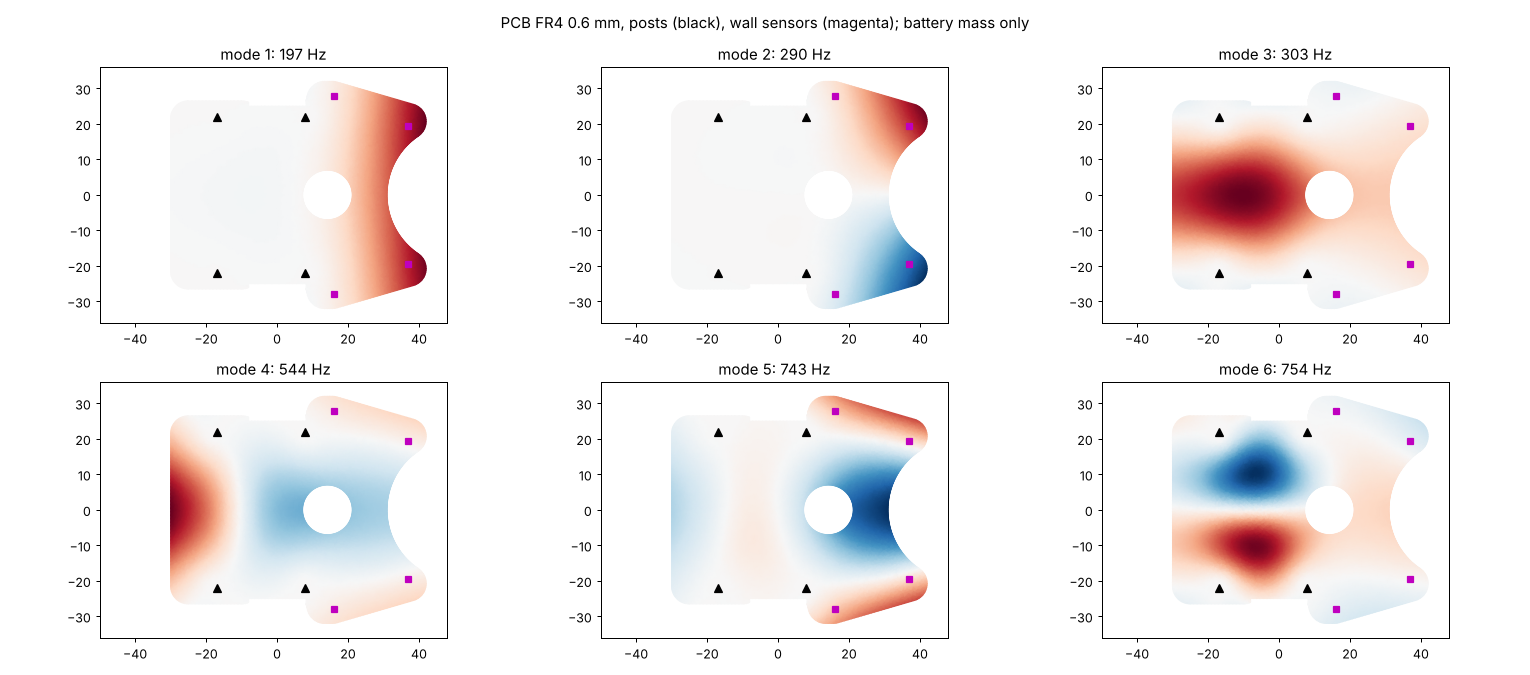
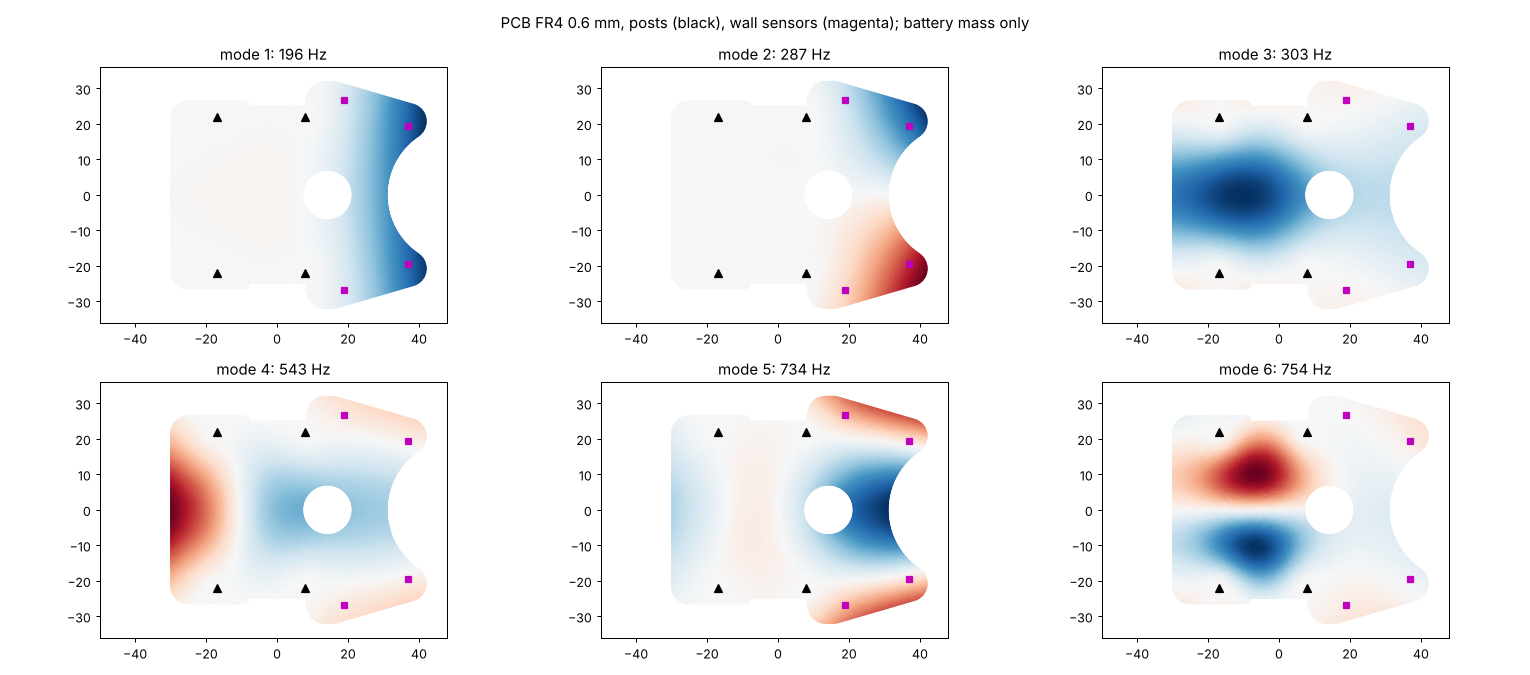
基板 v9: 前の壁センサを (21, ±27) へ(マウントの腕・ファンの台の継ぎ目から 1.1mm 離す)
Claude-Session: https://claude.ai/code/session_01H2Zvpqxqu2v63zaiCMmfT3

diff --git a/docs/vehicle.md b/docs/vehicle.md
@@ -24,7 +24,7 @@
 | フレームへの留め方 | **フレームには留めない**(2026-10-20)。モーターマウントの腕 (14, ±22) の2か所だけで持ち、輪はフレームの上に載せるだけ。羽根の推力と吸引で、台はフレームに押し付けられる向き。フレームの穴はマウントの4つだけになった(その前は前の耳 (33, 0) を下から鉄の低頭M2 L5で留めていた) |
 | 基板 | U字。モーターマウントの前後の耳の上の柱(z 13.6、4本)に載せ、ナイロンのM2 L4で留める(柱にねじ山)。**ファンの上は開けて**、吐き出した空気を上へ逃がす |
 | 電池 | ファンの上の穴をふさがないように、**5mm後ろ**へ(中心 x −10) |
-| 壁センサ | **ホルダに入れて基板の裏(下)に付ける**(2026-10-30、ToraNeko.Mk3 と同じ形、`mechanical/sensor_holder/`。z 3.7〜13.6、光は z 6.0(発光)・10.4(受光))。前の2本 (18, ±28) は外へ5°、横の2本 (37.5, ±17.5) は反対側の壁へ75°(左右で交差)。位置はホルダの前の面の真ん中。それまでは基板に寝かせ、(12, ±30)・(41, ±24) |
+| 壁センサ | **ホルダに入れて基板の裏(下)に付ける**(2026-10-30、ToraNeko.Mk3 と同じ形、`mechanical/sensor_holder/`。z 3.7〜13.6、光は z 6.0(発光)・10.4(受光))。前の2本 (21, ±27) は外へ5°、横の2本 (37.5, ±17.5) は反対側の壁へ75°(左右で交差)。位置はホルダの前の面の真ん中。それまでは基板に寝かせ、(12, ±30)・(41, ±24) |
 | 基板の形 | **基板 v9**(2026-10-30、`mechanical/pcb/`、形は`pcb_shape.py`): フレームと平行な八角形(フレームの 3mm 内側)、前の切り欠きは大きな円弧(中心 (51, 0)、半径 20)、後ろの横は |y| 26.5 でまっすぐ、車輪の所は四角く切る。へこんだ角 R3、出っ張った角 R5。x −30〜42.0、|y| ≤ 32、面積約3,420mm²。同じ日の v8 はフレームの 1.5mm 内側・半径 19 で約3,870mm²。それまでの **基板 v7**(同じ日): 後ろは長方形(x −30、|y| 26)、前は後ろの長方形と4つのセンサ(ホルダと足の穴)を囲む凸の形をフレームの 1mm 内側で切り、車輪の所と前の腕の間だけへこませる。角は R3。x −30〜47.5、|y| ≤ 33、面積約3,540mm²。それまでの **基板 v6**(2026-10-29): 前はクワガタの形(左右の腕の間を x 32 より前で開ける)。ファンの上はハブとモーターを通す穴(半径7)だけ開けて覆う。後ろは x −30 まで広げ、後ろの縁に UI の LED 7個。x −30〜45、面積約3,500mm²、部品込み6.43g。吸引の空気は輪の上と基板の間の 3.6mm のすき間と前の切り欠きから出る。それまでは U字(ファンの上を半径17.5で開け、後ろは x −19、約2,000mm²)、v5(後ろ x −46、前もつなげる、約4,800mm²) |
 
 - **合計55.3g**(2026-10-30 に基板を v8 にした(フレームと平行な八角形、+0.37g)。55.25g、慣性モーメント**275 g·cm²**、ぶつかりなし、光を遮る部品なし)。同じ日に基板を v7 にし、壁センサをホルダに入れて基板の裏に付けた(ホルダ 0.19g × 4、+0.78g)。エンコーダ基板を 5.3 × 12.3mm にした。54.88g、重心の高さ z 12.71(基板の上に立てる案では 13.02)、慣性モーメント**271 g·cm²**(ホルダが前の角にあるので +13)。ぶつかりなし、ホルダとフレームは 0.7mm)。2026-10-29 にモーターマウントを v9 にし、エンコーダ基板(7.8 × 10.3mm)をメイン基板の裏にはんだ付けして立てる形にした。54.16g、慣性モーメント258 g·cm²)。同じ日にモーターマウントを v8 にした(1個1.25g。機体のモデルのマウントも今の mount.py の形にそろえ、2個で 2.96 → 2.49g、54.02g、慣性モーメント257 g·cm²。モーターの筒の上と基板のすき間は0.19mm)。同じ日に基板を v6 にした(U字から +1.73g、54.49g、慣性モーメント 251 → **260 g·cm²**)。V90 3000 に要る吸引は約550 → 約570g、V90 3000 の入りの外側の電流は 3.4 → 3.6A、片側3Aの加速は 70 → 68 m/s²。2026-10-21 に継ぎ目を (14, ±22) へ動かし、マウントの腕が短くなった(−0.36g、52.76g、慣性モーメント251 g·cm²)。2026-10-20 にファンの台の腕を、ハブと輪をつなぐ斜め45°の4本と、輪から継ぎ目への短い腕2本にした(+0.08g、53.12g)。同じ日にファンのモーターを台の筒に圧入する形にした(締めのねじとナット −0.08g、筒を伸ばして +0.10g、53.04g)。同じ日にファンの台をフレームに留める前のねじをなくし、輪の壁を1.0mmにした(ねじ −0.22g、輪 +0.13g、フレーム +0.05g)。その前は53.1g。同じ日に吸引ファンを羽根φ32・囲いφ33にし、ファンの真下をカーボンで埋めた(frame v6.5、マウント v6): フレーム +0.54g、ファン +0.67g(羽根と輪が大きくなった。羽根の重さは仮の形の見積もり)、マウント +0.23g、基板 −0.55g(ファンの上の穴が大きくなった)で +0.88g。その前は52.2g。同じ日にファンの台をマウントの腕で持つ形にした(台の左右の柱とねじ2本がなくなり −0.27g)。同じ日に印刷の部品にねじ山を切ってナットをやめた(+0.27g: マウントと台の肉が増え、ナットがなくなる)。2026-10-19 に壁センサを移し、基板をU字にし、滑り板をカグスベールにした。その前はフレーム v6.2 で52.2g。v6・v6.1も同じ、v5のときは53.1g、v4.7は53.2g、v3は53.9g)。v3から、基板に穴を開けた分(−0.42g)、ケースが軽くなった分(−0.23g)、フレームを細くした分(−0.93g)で軽くなった
@@ -33,7 +33,7 @@
 
 ### 基板の振動(2026-10-30、基板 v9)
 
-基板 v9(0.6mm)、壁センサはホルダ込みで 0.39g × 4: **1次 197Hz**(前の左右の腕が同じ向きに上下、横の壁センサ (37.5, ±17.5) が揺れる)、2次 290Hz、3次 303Hz。前の腕が短くなったので上がった(v8 は 176・257Hz、v7 は 169・222Hz)。v6 の 203Hz から下がったのは、ほとんどがホルダの重さ(v7 の形でセンサを 0.2g にすると 195Hz)。上下 1G の揺れで横の壁センサは約0.008mm で、読みへの影響は小さいまま。図は`img/vehicle/pcb_modes_v9_0.6_mass.png`。
+基板 v9(0.6mm)、壁センサはホルダ込みで 0.39g × 4: **1次 196Hz**(前の左右の腕が同じ向きに上下、横の壁センサ (37.5, ±17.5) が揺れる)、2次 287Hz、3次 303Hz。前の腕が短くなったので上がった(v8 は 176・257Hz、v7 は 169・222Hz)。v6 の 203Hz から下がったのは、ほとんどがホルダの重さ(v7 の形でセンサを 0.2g にすると 195Hz)。上下 1G の揺れで横の壁センサは約0.008mm で、読みへの影響は小さいまま。図は`img/vehicle/pcb_modes_v9_0.6_mass.png`。
 
 以下は基板 v6(2026-10-29)のとき。基板(FR4 0.6mm)をマウントの柱4本で留め、部品2.5g・電池14.5g・壁センサ0.2g × 4を重さとして載せて、固有振動を計算した(Morley の板、電池は重さだけ。`mechanical/vehicle/pcb_modes.py`、図は`img/vehicle/pcb_modes_v6_0.6_mass.png`)。
 

diff --git a/mechanical/pcb/README.md b/mechanical/pcb/README.md
@@ -8,14 +8,14 @@
 |---|---|
 | OUTLINE | 外形(直線と円弧)と、壁センサのホルダのほぞの穴(3.2 × 3.2mm、角 R0.5、4つ)。x −30.0〜42.0、y ±32.0、面積約 3,420mm²(穴を除く) |
 | HOLES | M2 の通し穴 φ2.2 × 4: マウントの柱 (−17, ±22)・(8, ±22)。柱にねじ山を切り、上からナイロンのなべ M2 L4 で留める |
-| REF | 参考(切らない): ファンの輪の外側(半径17.5)とハブ(半径5.35)、マウントの柱(半径3.1)、ファンの台のねじの頭 (14, ±22)、電池(x −21.25〜1.25、y ±16)、UI の LED 7個(後ろの縁 x −27.5、y −12〜12 を 4mm おき)、エンコーダ基板が通る所(ENC、x −2.65〜2.65、y ±20.4〜21.0)、壁センサのホルダ(6.0 × 4.04mm)と足の穴(φ0.9、パッド φ1.6)と光(前 (18, ±28) は外へ5°、横 (37.5, ±17.5) は反対側の壁へ75°。位置はホルダの前の面の真ん中) |
+| REF | 参考(切らない): ファンの輪の外側(半径17.5)とハブ(半径5.35)、マウントの柱(半径3.1)、ファンの台のねじの頭 (14, ±22)、電池(x −21.25〜1.25、y ±16)、UI の LED 7個(後ろの縁 x −27.5、y −12〜12 を 4mm おき)、エンコーダ基板が通る所(ENC、x −2.65〜2.65、y ±20.4〜21.0)、壁センサのホルダ(6.0 × 4.04mm)と足の穴(φ0.9、パッド φ1.6)と光(前 (21, ±27) は外へ5°、横 (37.5, ±17.5) は反対側の壁へ75°。位置はホルダの前の面の真ん中) |
 
 ## 変更
 
 - **v9(2026-10-30)**: もっと削った(v8 から約 450mm²、−0.5g)
   - フレームから 3mm 内側(v8 は 1.5mm)、前の円弧を半径 20 に(x 31 まで)、後ろの横(車輪より後ろ)は |y| 26.5 でまっすぐ
-  - 壁センサを削った形に収まる所へ: 前 (18, ±29) → (18, ±28)、横 (40, ±18) → (37.5, ±17.5)。光が当たる所は前の壁 ±34mm、横の壁 65mm 前
-  - 前の腕が短くなり、基板の1次の振動は 176 → 197Hz に上がった
+  - 壁センサを削った形に収まる所へ: 前 (18, ±29) → (21, ±27)(マウントの腕・ファンの台の継ぎ目から 1.1mm)、横 (40, ±18) → (37.5, ±17.5)。光が当たる所は前の壁 ±32.5mm、横の壁 65mm 前
+  - 前の腕が短くなり、基板の1次の振動は 176 → 196Hz に上がった
   - 後ろの柱 (8, ±22) は基板の縁から 0.1mm はみ出す(柱の上は基板の下面に当たるので問題ない。v6〜v8 も同じ)
 - **v8(2026-10-30)**: v7 の形がよくないので作り直した(4つの案を並べて選んだ)
   - 外形はフレームと平行な八角形(フレームの 1.5mm 内側)。前の切り欠き(クワガタの腕の間)は大きな円弧(中心 (51, 0)、半径 19、x 32 まで)。ToraNeko.Mk3 の基板の前後の円弧と同じ考え方
